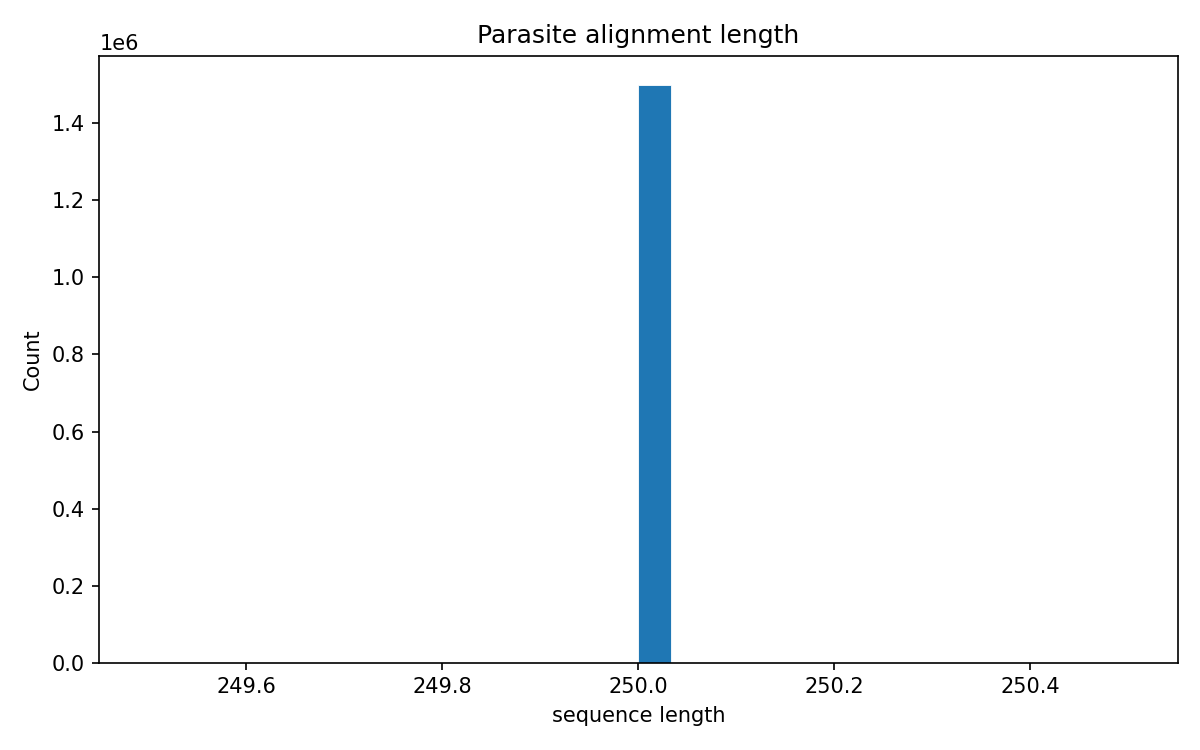
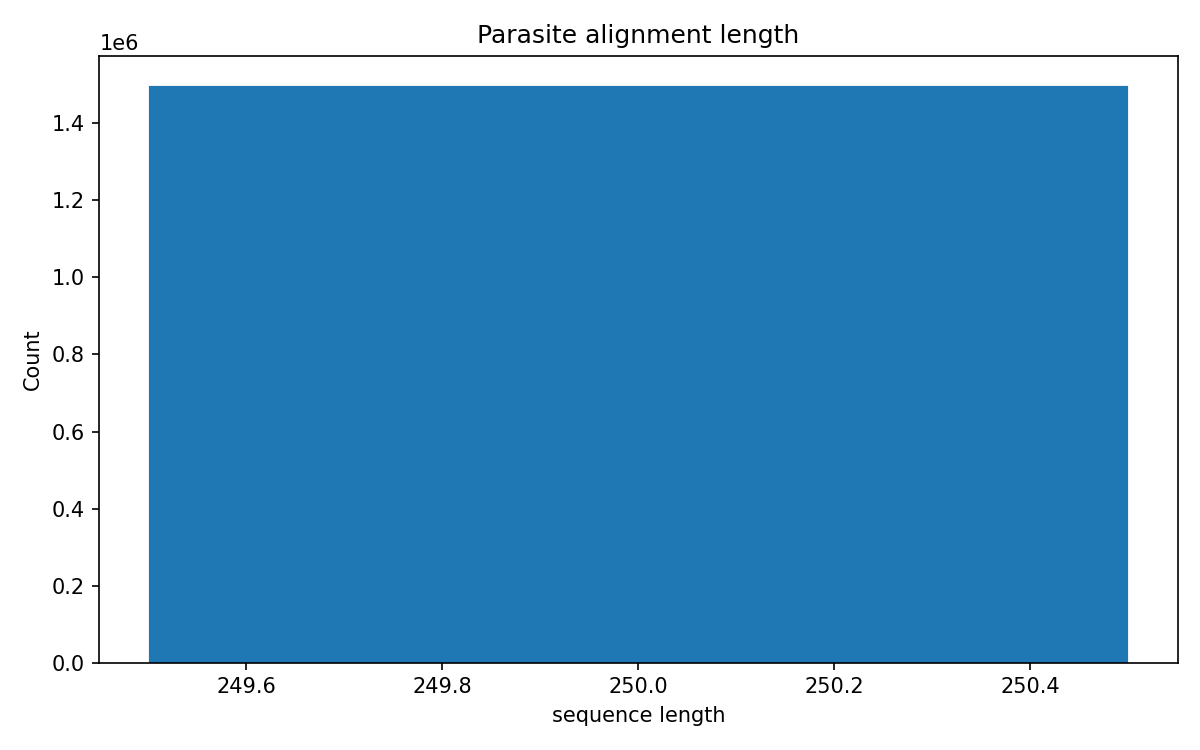
latest imgs

diff --git a/generate_asymmetree/analyze_data.py b/generate_asymmetree/analyze_data.py
@@ -243,6 +243,8 @@ def _save_hist(
     arr = data[np.isfinite(data)]
     if arr.size == 0:
         return
+    if np.all(arr == np.round(arr)) and (arr.max() - arr.min()) <= 200:
+        bins = np.arange(arr.min() - 0.5, arr.max() + 1.5, 1)
     plt.figure(figsize=(8, 5))
     plt.hist(arr, bins=bins, edgecolor="white", linewidth=0.4)
     plt.title(title)
@@ -312,7 +314,13 @@ def _save_combined_tree_hist(
         if arr.size == 0:
             ax.set_title(f"{title} (no data)")
             continue
-        ax.hist(arr, bins=bins, edgecolor="white", linewidth=0.4)
+        is_int = np.all(arr == np.round(arr))
+        span = arr.max() - arr.min()
+        if is_int and span <= 200:
+            hist_bins = np.arange(arr.min() - 0.5, arr.max() + 1.5, 1)
+        else:
+            hist_bins = bins
+        ax.hist(arr, bins=hist_bins, edgecolor="white", linewidth=0.4)
         ax.set_title(f"{title}  (n={arr.size:,})", fontsize=11)
         ax.set_xlabel(xlabel)
         ax.set_ylabel("count")
